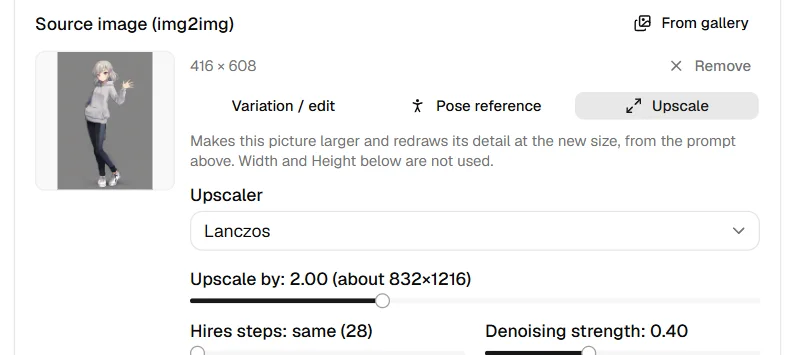
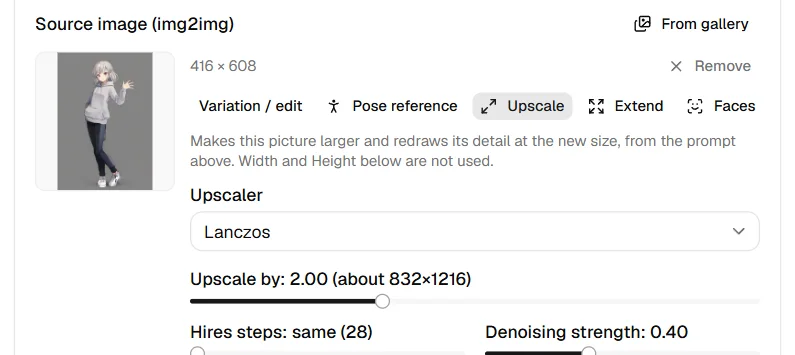
Release 0.16.0 (#191)
Fix faces, a Model axis for the X/Y grid on ComfyUI, stable-diffusion.cpp
as a backend and its pictures read in the gallery, a SwarmUI notice,
gallery folders chosen per paired device, {a|b} variants and YAML
wildcards, and more (#179-#190). The engine is unchanged.

diff --git a/e2e/screenshots/shared.ts b/e2e/screenshots/shared.ts
@@ -101,11 +101,13 @@ export async function shotBetween(page: Page, name: string, top: Locator, bottom
   const a = (await top.boundingBox())!
   const b = (await bottom.boundingBox())!
   const c = column ? (await column.boundingBox())! : { x: 0, width: WIDTH }
+  // Boxes are measured from the window, a full-page clip from the page's top.
+  const scrolled = await page.evaluate(() => window.scrollY)
   const pad = 12
   const png = await page.screenshot({
     animations: 'disabled',
     fullPage: true,
-    clip: { x: Math.max(0, c.x - pad), y: Math.max(0, a.y - pad), width: Math.min(WIDTH, c.width + 2 * pad), height: b.y + b.height - a.y + pad + below },
+    clip: { x: Math.max(0, c.x - pad), y: Math.max(0, a.y + scrolled - pad), width: Math.min(WIDTH, c.width + 2 * pad), height: b.y + b.height - a.y + pad + below },
   })
   await writeWebp(name, png)
 }

diff --git a/CHANGELOG.md b/CHANGELOG.md
@@ -2,9 +2,48 @@
 
 ## Unreleased
 
-**Upgrading**: paired phones and computers see no gallery folder until you
-turn **Show on paired devices** on for a folder in Settings > Gallery
-folders. This computer and owner devices are not affected.
+## 0.16.0 (2026-11-08)
+
+**Upgrading from 0.15.0**: the usual update; the engine is unchanged, so
+neither a restart of it nor **Repair / update** is needed. With Docker,
+`git pull` then `docker compose up -d` (with `-f compose.yaml -f
+compose.gpu.yaml` for a GPU) downloads this release's image. Paired phones
+and computers now see no gallery folder until you turn **Show on paired
+devices** on for a folder in Settings > Gallery folders; this computer and
+owner devices are not affected. **Fix faces** needs a face detector,
+downloaded on **Setup** when you press its Download.
+
+**Generate**
+
+- **Fix faces**: a source picture's **Faces** mode finds its faces and
+  redraws each one larger as an inpaint, pasting it back, on any backend
+  that inpaints (ADetailer-style). The faces are found on this computer by
+  a face detector downloaded on Setup: YuNet for photos or deepghs's anime
+  face detector, each pinned to a commit and checked against its SHA-256,
+  and fetched only when you press Download. The gallery viewer has **Fix
+  faces**. See
+  [Fix faces](https://33rd-kk.github.io/latentry/guide/from-a-picture/#fix-faces).
+- **Compare models in the X/Y grid**: on ComfyUI, **Model** is an axis of
+  its own. Click the checkpoints ComfyUI lists, and each cell draws with
+  its own, recorded in its picture. Checkpoints are listed by file name
+  only. Other backends do not offer it: a web UI would have to switch its
+  own model. See
+  [X/Y grid](https://33rd-kk.github.io/latentry/guide/many/#xy-grid).
+- **Variants and YAML wildcards**: `{red|blue|green}` in a prompt takes one
+  choice for the run, drawn from the seed like a wildcard's line, with
+  counts such as `{2$$a|b|c}` as in Dynamic Prompts; it needs no wildcards
+  folder. The wildcards folder also reads YAML files, whose keys name the
+  lists (`__group/name__` for nested keys). The picture keeps the prompt as
+  typed. Braces with no `|`, such as `{masterpiece}`, are left as written.
+  See [Variants](https://33rd-kk.github.io/latentry/guide/many/#variants).
+- **Save without settings on the Generate page**: each result, and the
+  viewer's panel, has **Save without settings**, made in the page from the
+  picture on screen (nothing is sent for it), and **Save with settings**,
+  the gallery's copy, once the picture is in the gallery. The plain
+  **Download** link and the viewer's own save button are gone. See
+  [Results](https://33rd-kk.github.io/latentry/guide/generate/#results).
+
+**Backends**
 
 - **stable-diffusion.cpp as a backend**: the new kind `sdcpp` draws on a
   stable-diffusion.cpp `sd-server`, a single program with no Python that
@@ -15,27 +54,6 @@ folders. This computer and owner devices are not affected.
   sd-server has no login, so Settings warns about one reached over the
   network without a token. See
   [stable-diffusion.cpp](https://33rd-kk.github.io/latentry/reference/backends/#stable-diffusioncpp).
-- **The gallery reads stable-diffusion.cpp's pictures**: pictures that
-  `sd-server` or `sd-cli` saved themselves show their settings, from PNG,
-  JPEG (its comment) and WebP (its XMP), and **Settings from** has
-  stable-diffusion.cpp. Its own record is read first, so hires fix, the
-  sampler and LoRAs come out right; model and LoRA folders are dropped.
-  A1111's `Hires resize` is read too, and PNG text written as UTF-8 by
-  other tools no longer comes out garbled.
-- **Compare models in the X/Y grid**: on ComfyUI, **Model** is an axis of
-  its own. Click the checkpoints ComfyUI lists, and each cell draws with
-  its own, recorded in its picture. Checkpoints are listed by file name
-  only. Other backends do not offer it: a web UI would have to switch its
-  own model. See
-  [X/Y grid](https://33rd-kk.github.io/latentry/guide/many/#xy-grid).
-- **Fix faces**: a source picture's **Faces** mode finds its faces and
-  redraws each one larger as an inpaint, pasting it back, on any backend
-  that inpaints (ADetailer-style). The faces are found on this computer by
-  a face detector downloaded on Setup: YuNet for photos or deepghs's anime
-  face detector, each pinned to a commit and checked against its SHA-256,
-  and fetched only when you press Download. The gallery viewer has **Fix
-  faces**. See
-  [Fix faces](https://33rd-kk.github.io/latentry/guide/from-a-picture/#fix-faces).
 - **SwarmUI's ComfyUI as a backend, with a warning**: the ComfyUI that
   SwarmUI starts works as an ordinary `comfyui` backend at its own port
   (checked with SwarmUI 0.9.8.4). SwarmUI shares that ComfyUI under its own
@@ -43,20 +61,16 @@ folders. This computer and owner devices are not affected.
   now says when a ComfyUI has SwarmUI's nodes: keep SwarmUI's Host on
   localhost, or turn on its login before opening it to the network. See
   [SwarmUI](https://33rd-kk.github.io/latentry/reference/backends/#swarmui).
-- **Choose which folders paired devices see**: each gallery folder has
-  **Show on paired devices** (off by default), and a folder that is off
-  answers a paired device as if it did not exist, on every route. Runs
-  started from a paired device can go to their own **Save folder for paired
-  devices**, and a paired device now sees and stops only the runs it started
-  itself. See
-  [Gallery folders](https://33rd-kk.github.io/latentry/guide/settings/#gallery-folders).
-- **Variants and YAML wildcards**: `{red|blue|green}` in a prompt takes one
-  choice for the run, drawn from the seed like a wildcard's line, with
-  counts such as `{2$$a|b|c}` as in Dynamic Prompts; it needs no wildcards
-  folder. The wildcards folder also reads YAML files, whose keys name the
-  lists (`__group/name__` for nested keys). The picture keeps the prompt as
-  typed. Braces with no `|`, such as `{masterpiece}`, are left as written.
-  See [Variants](https://33rd-kk.github.io/latentry/guide/many/#variants).
+
+**Gallery**
+
+- **The gallery reads stable-diffusion.cpp's pictures**: pictures that
+  `sd-server` or `sd-cli` saved themselves show their settings, from PNG,
+  JPEG (its comment) and WebP (its XMP), and **Settings from** has
+  stable-diffusion.cpp. Its own record is read first, so hires fix, the
+  sampler and LoRAs come out right; model and LoRA folders are dropped.
+  A1111's `Hires resize` is read too, and PNG text written as UTF-8 by
+  other tools no longer comes out garbled.
 - **Settings from custom ComfyUI samplers**: the gallery reads the prompt,
   seed, steps, CFG and sampler of ComfyUI pictures made with a custom sampler
   node (one named like `KSampler`, or any node taking a latent and the
@@ -68,16 +82,20 @@ folders. This computer and owner devices are not affected.
 - **Stars stay put**: stars given in the viewer no longer vanish when the
   gallery list was being refreshed at that moment (a new search, or a folder
   still being read).
+
+**Paired devices and Settings**
+
+- **Choose which folders paired devices see**: each gallery folder has
+  **Show on paired devices** (off by default), and a folder that is off
+  answers a paired device as if it did not exist, on every route. Runs
+  started from a paired device can go to their own **Save folder for paired
+  devices**, and a paired device now sees and stops only the runs it started
+  itself. See
+  [Gallery folders](https://33rd-kk.github.io/latentry/guide/settings/#gallery-folders).
 - **Settings asks before unsaved changes are lost**: with changes not yet
   saved, going to another page from the header, reloading or closing the tab
   first asks whether to leave. Switching sections still keeps the changes. See
   [Settings](https://33rd-kk.github.io/latentry/guide/settings/).
-- **Save without settings on the Generate page**: each result, and the
-  viewer's panel, has **Save without settings**, made in the page from the
-  picture on screen (nothing is sent for it), and **Save with settings**,
-  the gallery's copy, once the picture is in the gallery. The plain
-  **Download** link and the viewer's own save button are gone. See
-  [Results](https://33rd-kk.github.io/latentry/guide/generate/#results).
 
 ## 0.15.0 (2026-11-04)
 

diff --git a/README.md b/README.md
@@ -21,11 +21,14 @@ made, then sends those settings back to the form to make it again.
 - **Generate.** Text-to-image, img2img (variation, or a picture as a pose
   reference) and inpainting with a painted mask. Hires fix redraws a new
   picture at a larger size, and Upscale does the same to one already in the
-  gallery, and Extend grows a picture's canvas and draws the new area.
-  `__wildcards__` in a prompt take a line from a folder of text files. Runs
+  gallery, and Extend grows a picture's canvas and draws the new area. Fix
+  faces finds the faces in a picture on this computer and redraws each one
+  larger. `__wildcards__` in a prompt take a line from a folder of text or
+  YAML files, and `{red|blue}` picks one choice per run. Runs
   live on the server, so a reload or a second tab picks up a run in progress,
   and more runs queue behind the one going. An X/Y grid draws a run again
-  for each value of one or two settings, to compare them side by side.
+  for each value of one or two settings, to compare them side by side, or
+  with each of ComfyUI's checkpoints.
 - **Poses from group pictures, turned in 3D.** Drop in any picture, pick
   which of the people in it to follow (one, several or everyone), turn the
   pose in 3D, drag a joint and frame it, then generate along that skeleton.
@@ -36,7 +39,8 @@ made, then sends those settings back to the form to make it again.
 - **A gallery that knows how every picture was made.** Every finished image
   is saved with its settings embedded (readable by A1111's PNG Info too).
   Other folders, such as ComfyUI or web UI outputs, are browsed read-only,
-  and their settings are read from PNG, JPEG and WebP alike.
+  and their settings are read from PNG, JPEG and WebP alike, including
+  those saved by ComfyUI with custom samplers and by stable-diffusion.cpp.
   - Search prompts and tags, or one setting: `model:`, `seed:`,
     `steps:>=30`, `w:1024`; leave pictures out with `-tag`. The search box
     suggests tags, settings and how to write a search.

diff --git a/docs/index.md b/docs/index.md
@@ -21,10 +21,13 @@ it again by what it shows or how it was made.
   [Upscale](guide/bigger.md#upscale-a-picture) does the same to one already
   in the gallery. [Extend](guide/from-a-picture.md#extend-a-picture-outpainting)
   grows a picture's canvas and draws the new area, and
-  [wildcards](guide/many.md#wildcards) fill in parts of a prompt from a
-  folder of text files. More runs [queue](guide/many.md#the-queue)
+  [Fix faces](guide/from-a-picture.md#fix-faces) redraws each face larger.
+  [Wildcards](guide/many.md#wildcards) fill in parts of a prompt from a
+  folder of text or YAML files, and [variants](guide/many.md#variants) pick
+  one of `{a|b}`. More runs [queue](guide/many.md#the-queue)
   behind the one going, and an [X/Y grid](guide/many.md#xy-grid) draws a
-  run again for each value of one or two settings.
+  run again for each value of one or two settings, or for each ComfyUI
+  checkpoint.
 - **Poses from group pictures, turned in 3D**: pick which of the people in a
   picture to follow (one, several or everyone), turn the pose in 3D, drag a
   joint and frame it, then generate along that skeleton. See
@@ -34,7 +37,8 @@ it again by what it shows or how it was made.
   sizes, steps, CFG, negative prompt, artist notation and quality tags.
 - **Gallery**: every finished image is saved with its settings embedded
   (readable by A1111's PNG Info too); other tools' folders are browsed
-  read-only, with settings read from PNG, JPEG and WebP. Search by prompt,
+  read-only, with settings read from PNG, JPEG and WebP (stable-diffusion.cpp's
+  own too). Search by prompt,
   tag or setting (`model:`, `steps:>=30`) with suggestions as you type,
   rate with stars, order and filter, stack pictures that share a prompt,
   open an X/Y grid as a grid, compare two, send settings, tags or the
